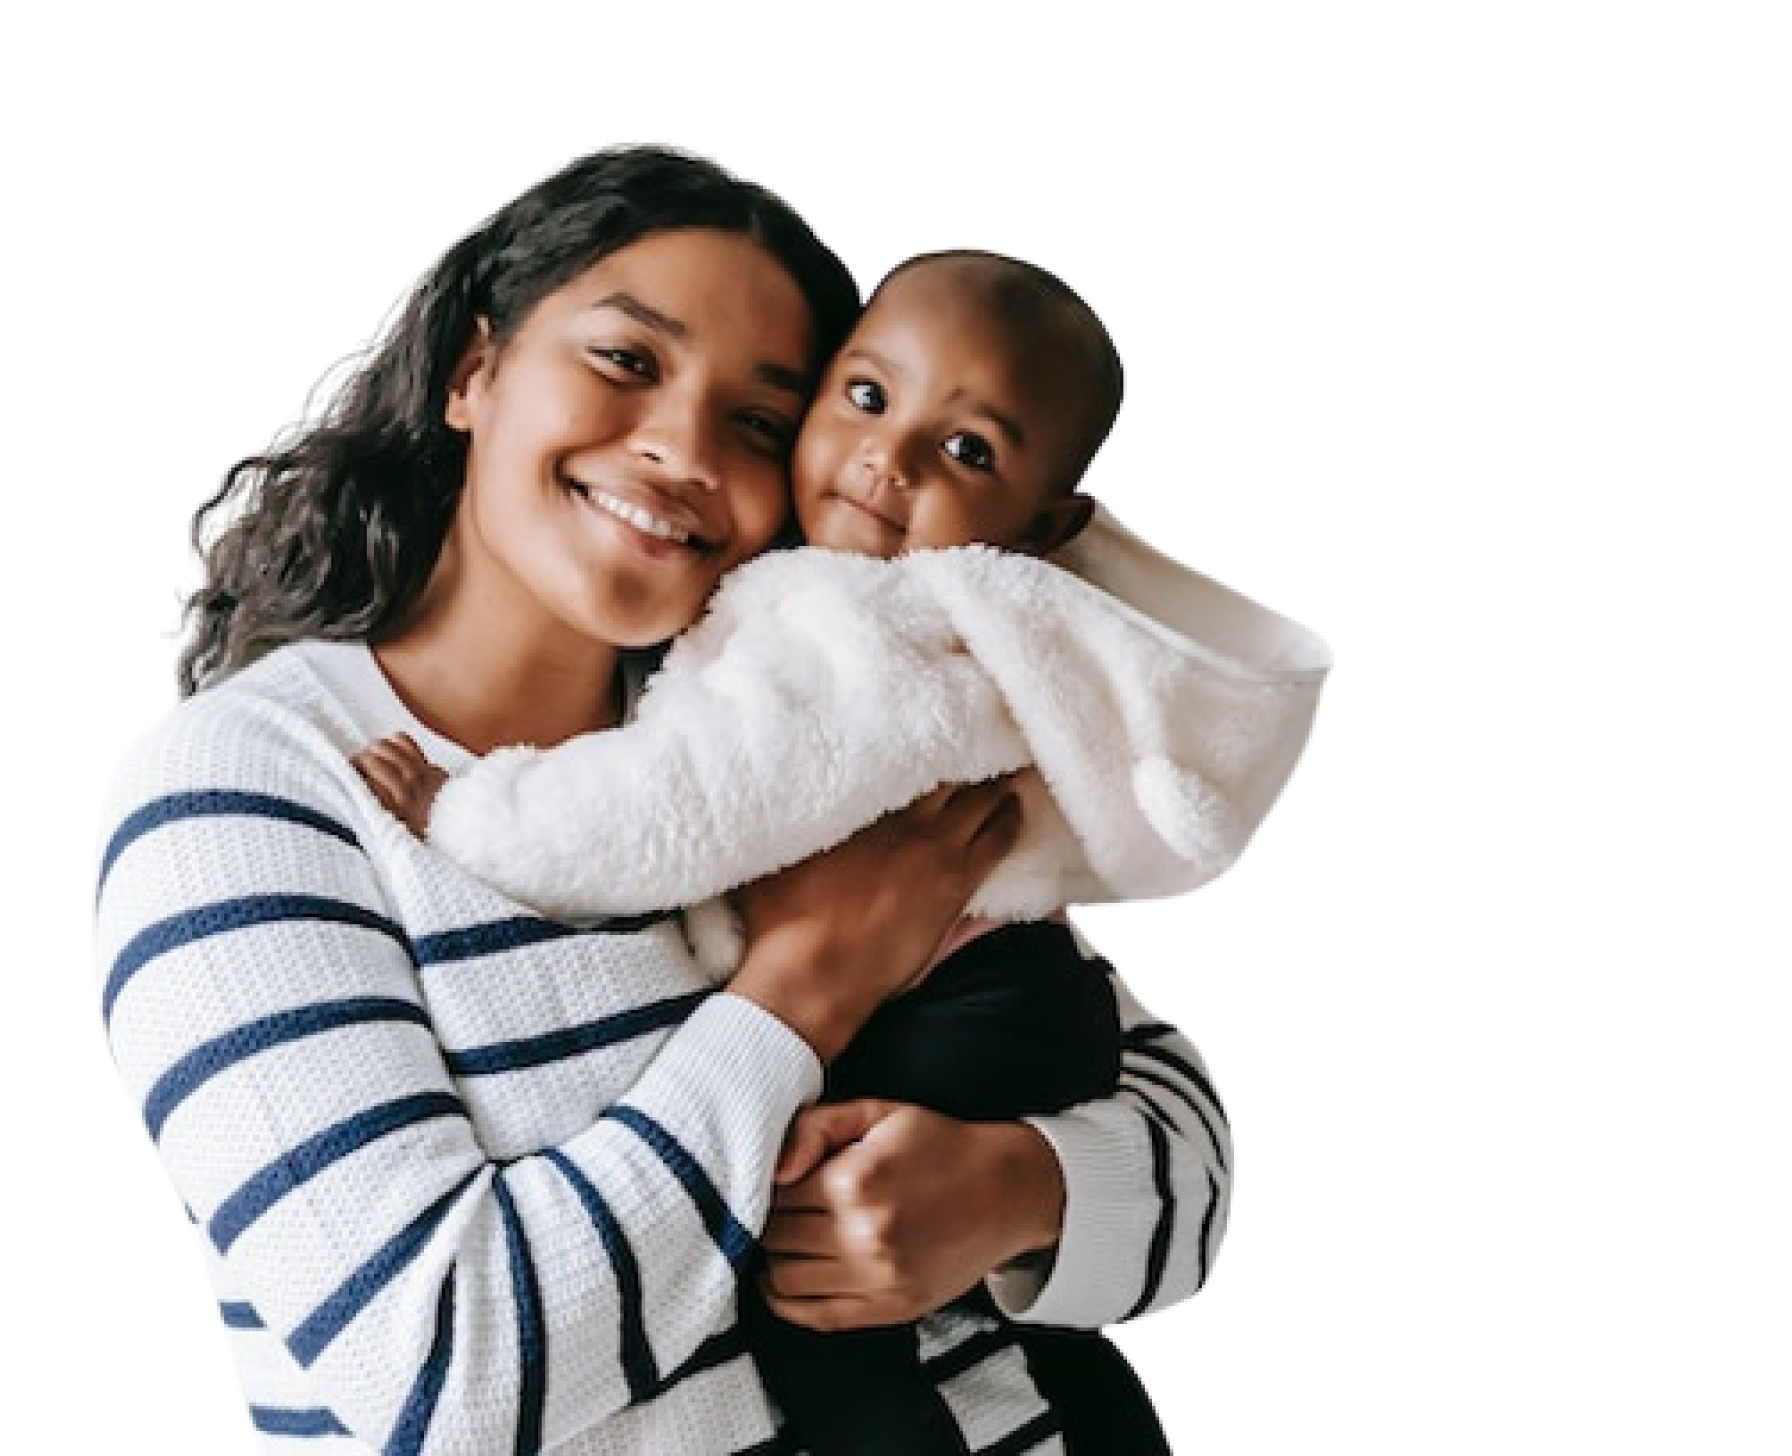
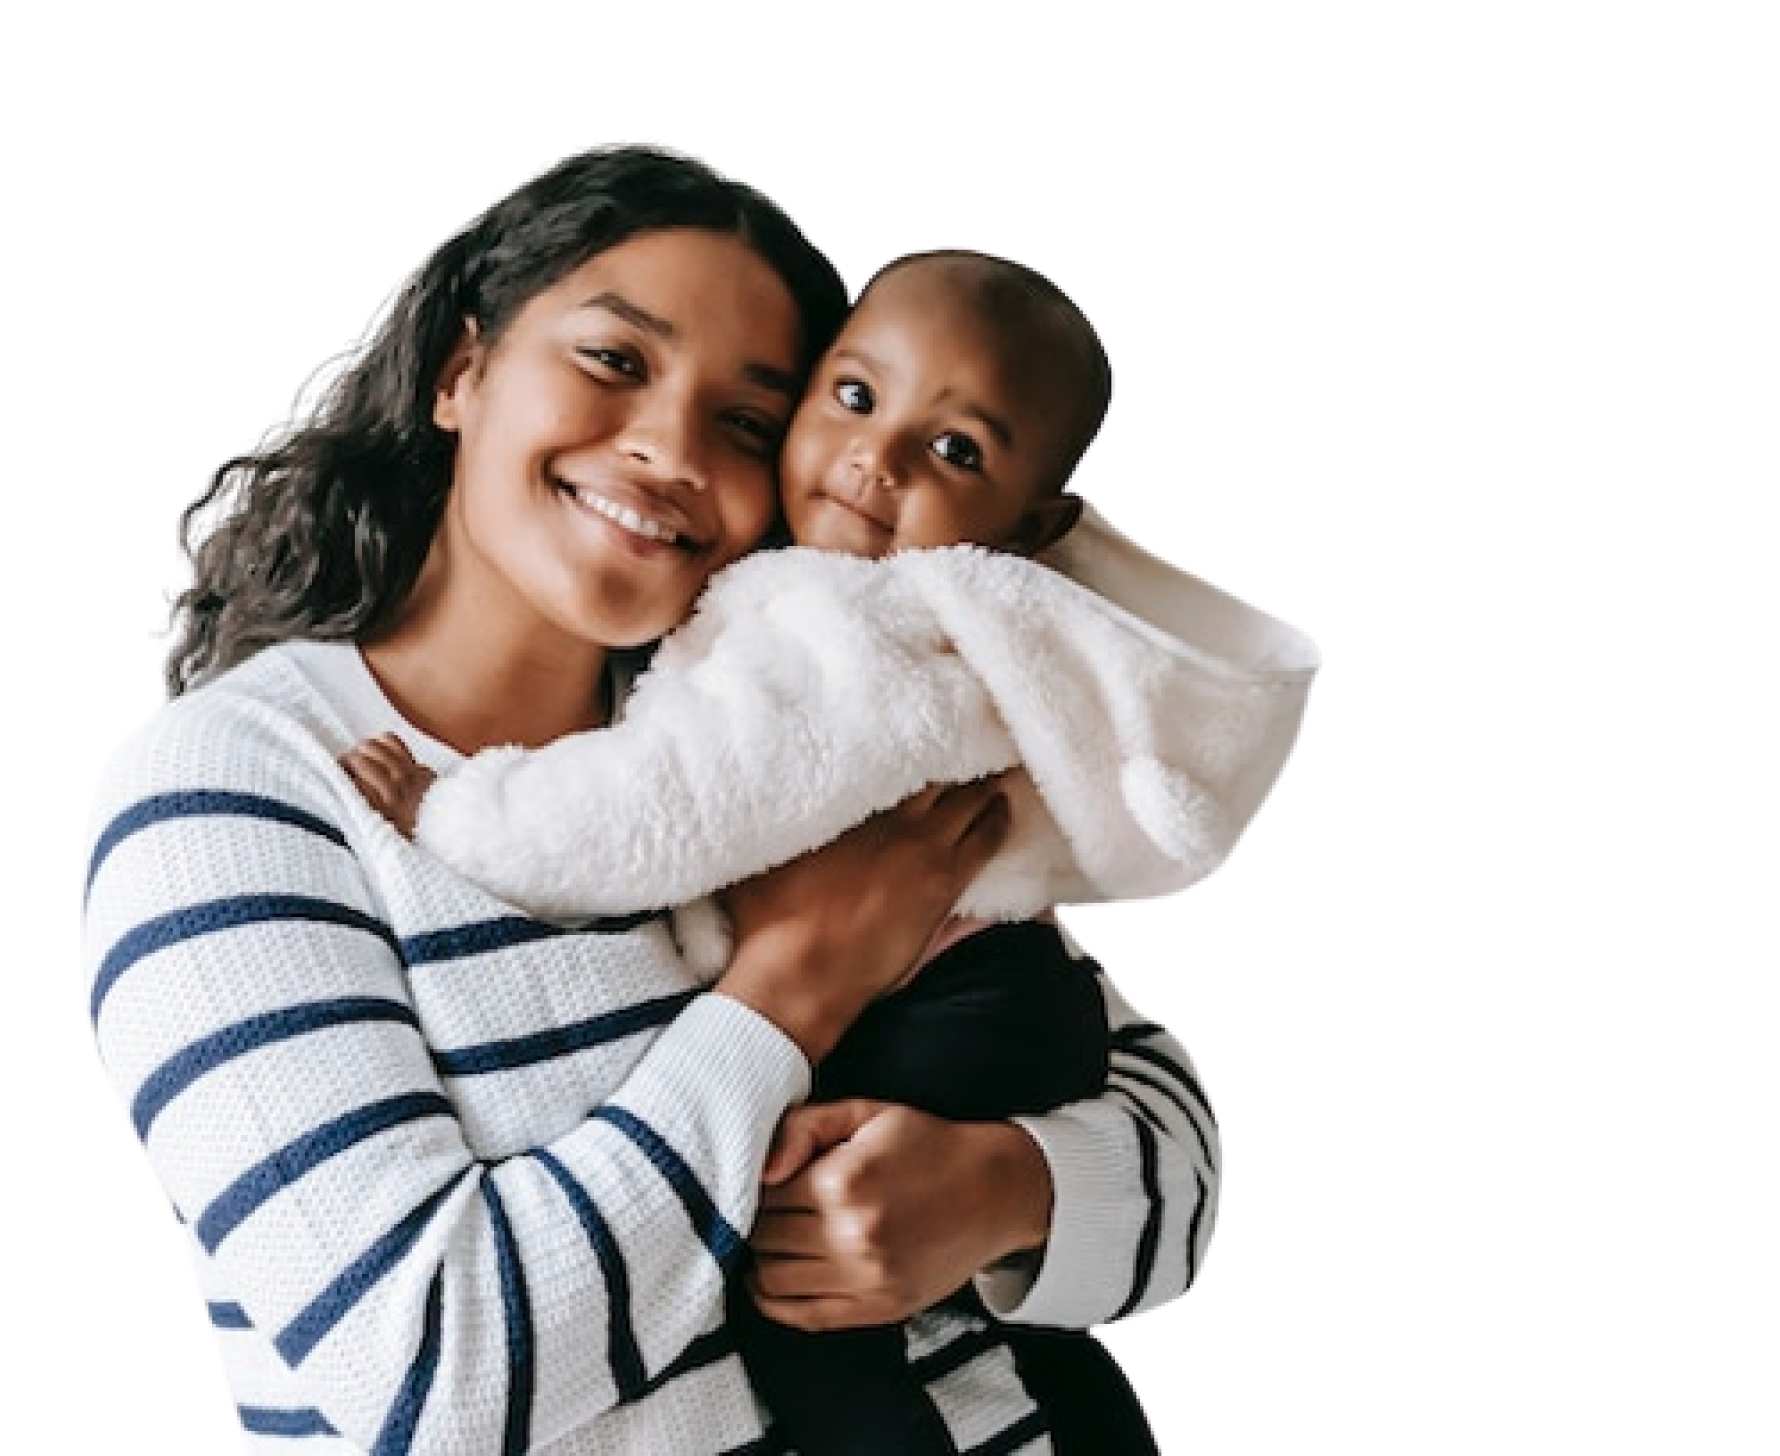
updated

diff --git a/style/style.css b/style/style.css
@@ -17,6 +17,9 @@ body  {
     --graycolor: rgba(79, 79, 79, 1);
     --signuptextcolor: rgba(13, 110, 253, 1);
     --footerblackcolor: rgba(32, 32, 32, 1);
+    --errorcolor: rgba(226, 41, 41, 1);   
+    --inputcolor: rgba(79, 79, 79, 0.2);
+    --logincolor: rgba(170, 49, 105, 1);
     --maxwidth: 1240px;
     --fontfamily: 'Montserrat', sans-serif;
     --fontfamily2: 'Poppins', sans-serif;
@@ -40,12 +43,16 @@ body  {
     display: flex;
     flex-direction: column;
     justify-content: center;
+}
+
+.nav-bar-tmh-logo a {
     font-family: var(--fontfamily);
     font-size: 24px;
     font-weight: 500;
     line-height: 29px;
     letter-spacing: 0.1em;
     color: var(--mothercolor);
+    text-decoration: none;
 }
 
 .nav-bar-tmh-logo span {
@@ -168,6 +175,7 @@ body  {
 
 .containerc {
     background-color: var(--sectionc);
+    position: relative;
 }
 
 .container-c-text {
@@ -232,6 +240,21 @@ body  {
     letter-spacing: 0.1em;
 }
 
+.group-love {
+    background-image: url(../assess/Group.png);
+    background-position: top;
+    background-size: cover;
+    background-repeat: no-repeat;
+    height: 152.65609744934912px;
+    width: 171.52224735629517px;
+    position: absolute;
+    bottom: 0px;
+}
+
+.containerd {
+    position: relative;
+}
+
 .flex-content-containerd {
     display: flex;
 
@@ -240,8 +263,9 @@ body  {
 .flex-content-containerd-picture {
     background-image: url(../assess/pexels-william-fortunato-6393377\ 2.png);
     background-repeat: no-repeat;
-    background-position: center;
+    background-position: center center;
     background-size: cover;
+    width: 100%;
     flex-basis: 50%;
 }
 
@@ -273,7 +297,7 @@ body  {
 
 .flex-content-containerd-text-link p {
     width: 190px;
-    padding: 21px 47px;
+    padding: 21px 46px;
     border-radius: 8px;
     border: 1px solid var(--signuptextcolor);
 }
@@ -286,6 +310,17 @@ body  {
     line-height: 22px;
     letter-spacing: 0em;
     color: var(--signuptextcolor);
+}
+
+.grouptwo-love {
+    background-image: url(../assess/group2.png);
+    background-position: top;
+    background-size: cover;
+    height: 152.656066931771px;
+    width: 171.5222320975061px;
+    position: absolute;
+    right: 0px;
+    bottom: 0px;
 }
 
 .containere {
@@ -530,4 +565,127 @@ body  {
     color: #fff;
     background-color: var(--childcolor);
     transition: 2s;
+}
+
+/*sign up Page*/
+.signupflex {
+    display: flex;
+}
+
+.signupflex-one {
+    margin-left: 56px;
+    flex-basis: 50%;
+    color: var(--graycolor);
+}
+
+.signupflex-one-padding {
+    padding: 29px 0px 80px 0px;
+}
+
+.signupflex-one-form-text {
+    font-family: var(--fontfamily2);
+    font-size: 32px;
+    font-weight: 600;
+    line-height: 48px;
+    letter-spacing: 0.02em;
+}
+
+.signupflex-one-form {
+    margin-top: 40px;
+}
+
+.signupflex-one-form-detail {
+    margin-bottom: 8px;
+    font-family: var(--fontfamily2);
+    font-size: 17px;
+    font-weight: 400;
+    line-height: 27px;
+    letter-spacing: 0.05em;
+}
+
+.signupflex-one-form-detail span {
+    color: var(--errorcolor);
+}
+
+.signupflex-one-form input {
+    width: 550px;
+    margin-bottom: 18px;
+    padding: 19px 0px 20px 18px;
+    border: 1px solid var(--inputcolor);
+    border-radius: 8px;
+    outline: none;
+    font-family: var(--fontfamily2);
+    font-size: 16px;
+    font-weight: 400;
+    line-height: 25px;
+    letter-spacing: 0.05em;
+}
+
+.signupflex-two {
+    background-image: url(../assess/Rectangle\ 1343.png);
+    background-position: top;
+    background-size: cover;
+    background-repeat: no-repeat;
+    flex-basis: 50%;
+}
+
+.signupflex-one-form-texttwo {
+    margin-bottom: 30px;
+    font-family: var(--fontfamily2);
+    font-size: 16px;
+    font-weight: 400;
+    line-height: 25px;
+    letter-spacing: 0.05em;
+    text-align: left;
+}
+
+.signupflex-one-form-button {
+    margin: 22px 0px 14px 0px;
+}
+
+.signupflex-one-form-button button {
+    background-color: transparent;
+    width: 550px;
+    border-radius: 8px;
+    padding: 16px 32px 16px 32px;
+    color: var(--signuptextcolor);
+    font-family: var(--fontfamily2);
+    font-size: 16px;
+    font-weight: 500;
+    line-height: 22px;
+    letter-spacing: 0em;
+    border: 1px solid var(--signuptextcolor);
+}
+
+.signupflex-one-form-button-login{
+    margin-left: 134px;
+    font-family: var(--fontfamily2);
+    font-size: 16px;
+    font-weight: 500;
+    line-height: 25px;
+    letter-spacing: 0.05em;
+}
+
+.signupflex-one-form-button-login a {
+    text-decoration: none;
+    color: var(--logincolor);
+}
+
+/* login page*/
+
+.loginflex {
+    height: 100vh;
+}
+
+.loginflex-one-form-button button {
+    background-color: var(--signuptextcolor);
+    color: var(--whitecolor);
+}
+
+.loginflex-two {
+    background-image: url(../assess/Rectangle\ 5883.png);
+    background-position: top;
+    background-size: cover;
+    background-repeat: no-repeat;
+    flex-basis: 50%;
 }

diff --git a/signup.html b/signup.html
@@ -1,0 +1,49 @@
+<!DOCTYPE Html>
+<html lang="en">
+    <head>
+        <meta charset="UTF-8">
+        <meta http-equiv="X-UA-Compatible" content="IE=edge">
+        <meta name="viewport" content="width=device-width, initial-scale=1">
+        <title>SignUp Page</title>
+        <!--<link rel="icon" type="access/png" href="access/exquitecFavIcon 1.png">-->
+        <link rel="stylesheet" href="https://cdnjs.cloudflare.com/ajax/libs/font-awesome/6.1.2/css/all.min.css">
+        <link rel="stylesheet" href="https://maxcdn.bootstrapcdn.com/font-awesome/4.4.0/css/font-awesome.min.css">
+        <!--<link rel="stylesheet" type="text/css" href="./style/bootstrap.min.css">-->
+        <link rel="stylesheet" type="text/css" href="./style/style.css">
+        <link rel="preconnect" href="https://fonts.googleapis.com">
+        <link rel="preconnect" href="https://fonts.gstatic.com" crossorigin>
+        <link href="https://fonts.googleapis.com/css2?family=Montserrat:ital,wght@0,100;0,200;0,300;0,400;0,500;0,600;0,700;0,800;0,900;1,100;1,200;1,300;1,400;1,500;1,600;1,700;1,800;1,900&family=Poppins:ital,wght@0,100;0,200;0,300;0,400;0,500;0,600;0,700;0,800;0,900;1,100;1,200;1,300;1,400;1,500;1,600;1,700;1,800;1,900&display=swap" rel="stylesheet">
+    </head>
+    <body>
+        <section class="signupflex">
+            <div class="signupflex-one">
+                <div class="signupflex-one-padding">
+                    <div class="nav-bar-tmh-logo">
+                        <p><a href="index.html">THE MOTHER’S <span>HAVEN</span></a></p>
+                    </div>
+                    <div class="signupflex-one-form">
+                        <p class="signupflex-one-form-text">Create a Profile</p>
+                        <p class="signupflex-one-form-texttwo">Let’s get you started on our platform</p>
+                        <form>
+                            <p class="signupflex-one-form-detail">Name <span>*</span></p>
+                            <p><input type="text" name="name" placeholder="name"></p>
+                            
+                            <p class="signupflex-one-form-detail">E-mail Address <span>*</span></p>
+                            <p><input type="email" name="email" placeholder="E-mail"></p>
+                            <p class="signupflex-one-form-detail">Password <span>*</span></p>
+                            <p><input type="password" name="password" placeholder="Password"></p>
+                            <p class="signupflex-one-form-button"><button>Continue</button></p>
+                            <p class="signupflex-one-form-button-login">Already have an account? <a href="#">Login</a></p>
+                        </form>
+                    </div>
+                </div>
+            </div>
+            <div class="signupflex-two">
+
+            </div>
+        </section>
+        <div id="backToTop">
+            <i class="fas fa-arrow-up rounded-circle shadow"></i>
+        </div>
+    </body>
+</html>

diff --git a/login.html b/login.html
@@ -1,0 +1,46 @@
+<!DOCTYPE Html>
+<html lang="en">
+    <head>
+        <meta charset="UTF-8">
+        <meta http-equiv="X-UA-Compatible" content="IE=edge">
+        <meta name="viewport" content="width=device-width, initial-scale=1">
+        <title>Login Page</title>
+        <!--<link rel="icon" type="access/png" href="access/exquitecFavIcon 1.png">-->
+        <link rel="stylesheet" href="https://cdnjs.cloudflare.com/ajax/libs/font-awesome/6.1.2/css/all.min.css">
+        <link rel="stylesheet" href="https://maxcdn.bootstrapcdn.com/font-awesome/4.4.0/css/font-awesome.min.css">
+        <!--<link rel="stylesheet" type="text/css" href="./style/bootstrap.min.css">-->
+        <link rel="stylesheet" type="text/css" href="./style/style.css">
+        <link rel="preconnect" href="https://fonts.googleapis.com">
+        <link rel="preconnect" href="https://fonts.gstatic.com" crossorigin>
+        <link href="https://fonts.googleapis.com/css2?family=Montserrat:ital,wght@0,100;0,200;0,300;0,400;0,500;0,600;0,700;0,800;0,900;1,100;1,200;1,300;1,400;1,500;1,600;1,700;1,800;1,900&family=Poppins:ital,wght@0,100;0,200;0,300;0,400;0,500;0,600;0,700;0,800;0,900;1,100;1,200;1,300;1,400;1,500;1,600;1,700;1,800;1,900&display=swap" rel="stylesheet">
+    </head>
+    <body>
+        <section class="signupflex loginflex">
+            <div class="signupflex-one">
+                <div class="signupflex-one-padding">
+                    <div class="nav-bar-tmh-logo">
+                        <p><a href="index.html">THE MOTHER’S <span>HAVEN</span></a></p>
+                    </div>
+                    <div class="signupflex-one-form">
+                        <p class="signupflex-one-form-text">Welcome back <span></span></p>
+                        <p class="signupflex-one-form-texttwo">Enter your details to login</p>
+                        <form>
+                            <p class="signupflex-one-form-detail">E-mail Address <span>*</span></p>
+                            <p><input type="email" name="email" placeholder="E-mail"></p>
+                            <p class="signupflex-one-form-detail">Password <span>*</span></p>
+                            <p><input type="password" name="password" placeholder="Password"></p>
+                            <p class="signupflex-one-form-button loginflex-one-form-button"><button>Log In</button></p>
+                            <p class="signupflex-one-form-button-login">Not Registered? <a href="#">Sign up</a></p>
+                        </form>
+                    </div>
+                </div>
+            </div>
+            <div class="loginflex-two">
+
+            </div>
+        </section>
+        <div id="backToTop">
+            <i class="fas fa-arrow-up rounded-circle shadow"></i>
+        </div>
+    </body>
+</html>

diff --git a/index.html b/index.html
@@ -19,7 +19,7 @@
             <div class="max_width">
                 <nav class="nav-bar-tmh">
                     <div class="nav-bar-tmh-logo">
-                        <p>THE MOTHER’S <span>HAVEN</span></p>
+                        <p><a href="index.html">THE MOTHER’S <span>HAVEN</span></a></p>
                     </div>
                     <div class="nav-bar-tmh-links">
                         <ul>
@@ -27,7 +27,7 @@
                             <li><a href="#">Blog</a></li>
                             <li><a href="#">Community</a></li>
                         </ul>
-                        <p class="nav-bar-tmh-links-signup"><a href="#">Sign Up</a></p>
+                        <p class="nav-bar-tmh-links-signup"><a href="signup.html">Sign Up</a></p>
                     </div>
                 </nav>
             </div>
@@ -104,6 +104,9 @@
                     </div>
                 </div>
             </div>
+            <div class="group-love">
+                
+            </div>
         </section>
         <!--Section offers ends here-->
         <!--Section focus starts here-->
@@ -124,6 +127,9 @@
                         </div>
                     </div>
                 </div>
+            </div>
+            <div class="grouptwo-love">
+                
             </div>
         </section>
         <section class="containere">
